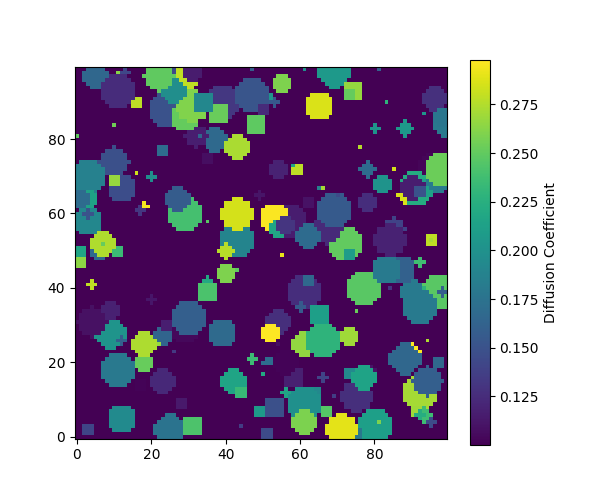
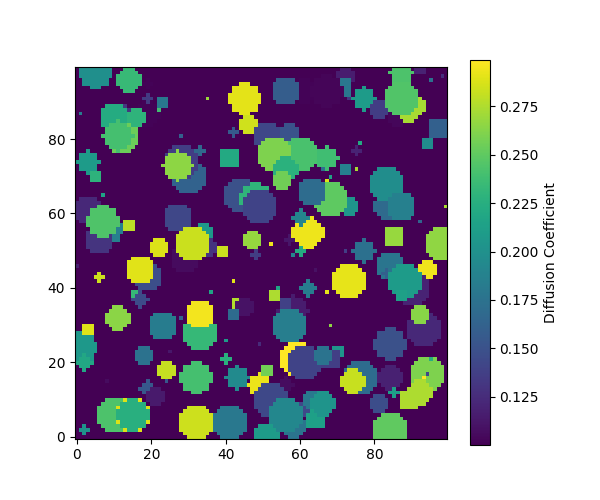
save

diff --git a/dataset.py b/dataset.py
@@ -486,7 +486,7 @@ class OperatorFieldMappingDataset(OperatorDataset):
         N, H, W = inputs.shape
 
         if num_samples > N:
-            raise ValueError(f"num_samples ({num_samples}) cannot exceed available samples ({N}).")
+            num_samples = N
             
         print("input shape", inputs[0].shape)
         print(f" ############## Loading simulation dataset: {simulation_file_path}, size: {N} ##################")
@@ -516,62 +516,68 @@ class OperatorFieldMappingDataset(OperatorDataset):
             u_min = torch.min(inputs)
             v_max = torch.max(inputs)
             v_min = torch.min(inputs)
-            u = (u - u_min) / (u_max- u_min)
+            u = (u - u_min) / (u_max - u_min)
             v = (v - v_min) / (v_max - v_min)
 
-            ###### plotting ##########
-            # fig, ax = plt.subplots(1, 4, figsize=(20, 6))
-
-            # scatter_1 = ax[0].scatter(
-            #     x[0].cpu(), 
-            #     x[1].cpu(),
-            #     c=u.cpu(), 
-            #     cmap="viridis", 
-            #     vmin=0,
-            #     vmax=1,
-            # )
-            # ax[0].set_aspect("equal")
-            # cbar1 = fig.colorbar(scatter_1, ax=ax[0])
-            # cbar1.set_label("u value")
-
-            # scatter_2 = ax[1].scatter(
-            #     y[1].cpu(), 
-            #     y[0].cpu(),
-            #     c=v.cpu(), 
-            #     vmin=0,
-            #     vmax=1,
-            #     cmap="viridis", 
-            # )
-            # ax[1].set_aspect("equal")
-            # cbar2 = fig.colorbar(scatter_2, ax=ax[1])
-            # cbar2.set_label("v value")
-
-            # im_1 = ax[2].imshow(
-            #     inputs[i],
-            #     cmap="viridis", 
-            #     origin="lower",
-            #     vmin=0,
-            #     vmax=1,
-            # )
-            # ax[2].set_aspect("equal")
-            # cbar4 = fig.colorbar(im_1, ax=ax[2])
-            # cbar4.set_label("v value")
-
-            # im_2 = ax[3].imshow(
-            #     outputs[i],
-            #     cmap="viridis", 
-            #     origin="lower",
-            #     vmin=0,
-            #     vmax=1,
-            # )
-            # ax[3].set_aspect("equal")
-            # cbar4 = fig.colorbar(im_2, ax=ax[3])
-            # cbar4.set_label("v value")
-
-            # plt.tight_layout()
-            # plt.savefig(f"./temp.png")
+            print("u", u) 
+            print("v", v) 
+            print("inputs", inputs[i])
             
-            #### end plotting ########
+            plotting = False
+            if plotting:
+                # ##### plotting ##########
+                fig, ax = plt.subplots(1, 4, figsize=(20, 6))
+                scatter_1 = ax[0].scatter(
+                    x[0].cpu(), 
+                    x[1].cpu(),
+                    c=u.cpu(), 
+                    cmap="viridis", 
+                    vmin=0,
+                    vmax=1,
+                )
+                ax[0].set_aspect("equal")
+                cbar1 = fig.colorbar(scatter_1, ax=ax[0])
+                cbar1.set_label("u value")
+
+                scatter_2 = ax[1].scatter(
+                    y[1].cpu(), 
+                    y[0].cpu(),
+                    c=v.cpu(), 
+                    vmin=0,
+                    vmax=1,
+                    cmap="viridis", 
+                )
+                ax[1].set_aspect("equal")
+                cbar2 = fig.colorbar(scatter_2, ax=ax[1])
+                cbar2.set_label("v value")
+
+                im_1 = ax[2].imshow(
+                    inputs[i],
+                    cmap="viridis", 
+                    origin="lower",
+                    vmin=0,
+                    vmax=1,
+                )
+                ax[2].set_aspect("equal")
+                cbar4 = fig.colorbar(im_1, ax=ax[2])
+                cbar4.set_label("v value")
+
+                im_2 = ax[3].imshow(
+                    outputs[i],
+                    cmap="viridis", 
+                    origin="lower",
+                    vmin=0,
+                    vmax=1,
+                )
+                ax[3].set_aspect("equal")
+                cbar4 = fig.colorbar(im_2, ax=ax[3])
+                cbar4.set_label("v value")
+
+                plt.tight_layout()
+                plt.savefig(f"./temp.png")
+                plt.show()
+                plt.close()
+                ## end plotting ########
             u_data.append(u)
             v_data.append(v)    
 
@@ -600,7 +606,7 @@ if __name__ == "__main__":
 
     nx, ny = 100, 100
     dx, dy = 0.01, 0.01
-    num_simulations = 100
+    num_simulations = 20
     nt = 5000
     t0 = nt - 1
     d_min = 0.1
@@ -615,19 +621,21 @@ if __name__ == "__main__":
     n_blobs = 200
     radius = 5
     quadratic_alpha = False  # If True, use quadratic alpha for diffusivity
-    snapshot_simulation = False  # If True, generate a snapshot simulation dataset
+    snapshot_simulation = True  # If True, generate a snapshot simulation dataset
     random_t = True  # If True, generate random snapshots; if False, use the last snapshot
     
     if quadratic_alpha:
         # Use d_min and d_max for din and dout respectively as per current variable names
-        save_path_simulation = os.path.join(script_dir, "datasets", "simulation", 
-                                    f"{"snapshot" if snapshot_simulation else ""}_{timestamp}_simulation_n{num_simulations}_nt{nt}_nx{nx}_ny{ny}"
+        snapshot_prefix = "snapshot_" if snapshot_simulation else ""
+        save_path_simulation = os.path.join(script_dir, "datasets", "simulation", \
+                                    f"{snapshot_prefix}{timestamp}_simulation_n{num_simulations}_nt{nt}_nx{nx}_ny{ny}" \
                                     f"_dt{dt}_din{d_min}_dout{d_max}_sy{start_y}_ey{end_y}_sx{start_x}_ex{end_x}_random{random_t}.pt")
         D = torch.full((ny, nx), d_max, device=device)
         D[start_y:end_y, start_x:end_x] = d_min
     else:
+        snapshot_prefix = "snapshot_" if snapshot_simulation else ""
         save_path_simulation = os.path.join(script_dir, "datasets", "simulation", 
-                                    f"{"snapshot" if snapshot_simulation else ""}_{timestamp}_simulation_n{num_simulations}_nt{nt}_nx{nx}_ny{ny}"
+                                    f"{snapshot_prefix}{timestamp}_simulation_n{num_simulations}_nt{nt}_nx{nx}_ny{ny}"
                                     f"_dt{dt}_dmin{d_min}_dmax{d_max}_nblobs{n_blobs}_radius{radius}_random{random_t}.pt")
         D = create_blob_diffusivity(ny=ny, nx=nx, d_min=d_min, d_max=d_max, n_blobs=n_blobs, radius=radius, device=device)
 

diff --git a/train_operator.py b/train_operator.py
@@ -29,17 +29,6 @@ def visualize_predictions(operator, test_dataset, num_samples, mode, device='cpu
 
     for i in range(num_samples):
         x,u,y,v = test_dataset[i]
-        print("u shape pred", u.shape)
-        print("x shape pred", x.shape)
-        print("v shape pred", v.shape)
-        print("y shape pred", y.shape)
-        u_max = torch.max(u)
-        u_min = torch.min(u)
-        v_max = torch.max(v)
-        v_min = torch.min(v)
-        u = (u - u_min) / (u_max- u_min)
-        v = (v - v_min) / (v_max - v_min)
-
 
         x = x.to(device).unsqueeze(0)
         u = u.to(device).unsqueeze(0)
@@ -199,7 +188,7 @@ def main():
     num_samples = 2000
     observed_fraction = 0.0004
     domain_fraction = 1
-    simulation_file = "snapshot_0602_174045_simulation_n2000_nt5000_nx100_ny100_dt0.0001_dmin0.1_dmax0.3_nblobs200_radius5_randomTrue.pt"
+    simulation_file = "snapshot_0604_092628_simulation_n20_nt5000_nx100_ny100_dt0.0001_dmin0.1_dmax0.3_nblobs200_radius5_randomTrue.pt"
     simulation_file_path = os.path.join(script_dir, "datasets", "simulation", simulation_file)
     simulation_file = simulation_file.replace(".pt", "")
     
@@ -251,7 +240,7 @@ def main():
     ############################
 
     # Define hyperparameters
-    epochs = 200
+    epochs = 10
     trunk_depth = 16
     branch_depth = 16
     trunk_width = 48
